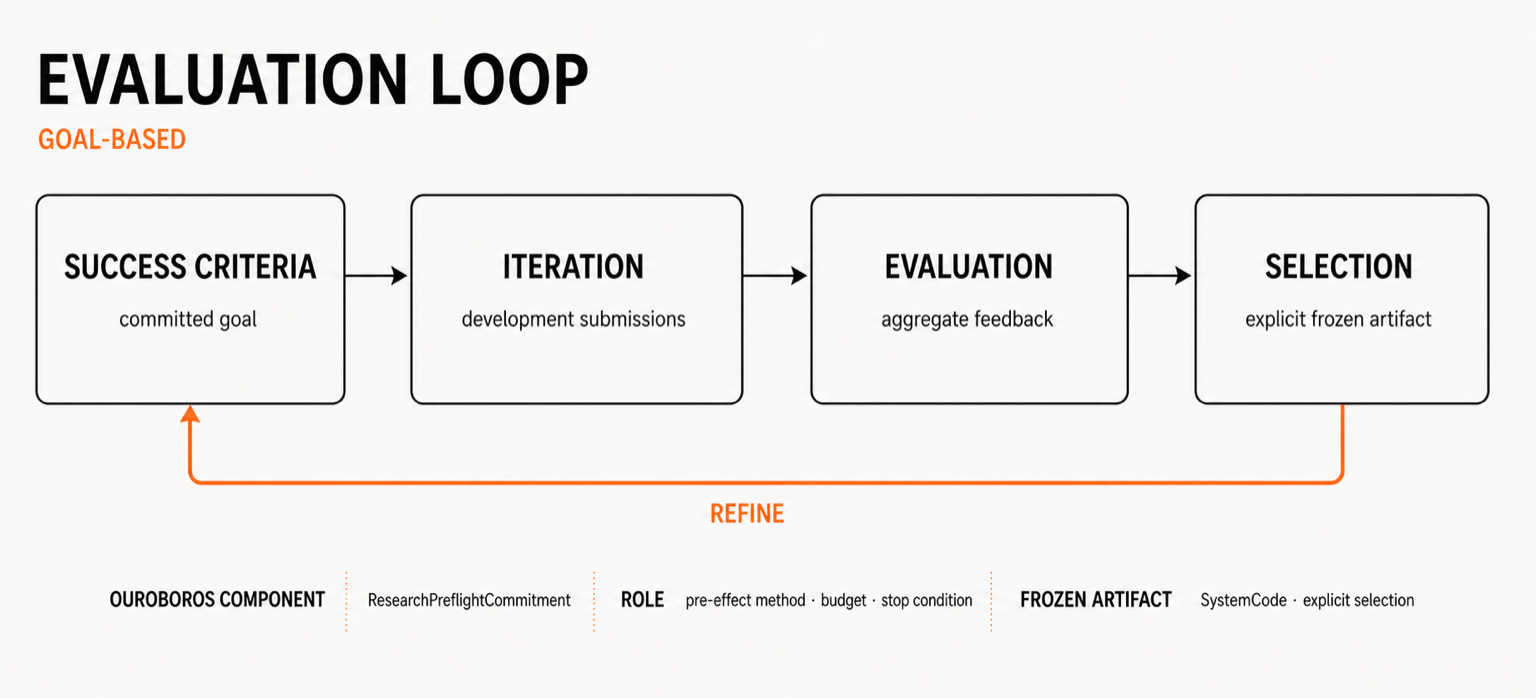
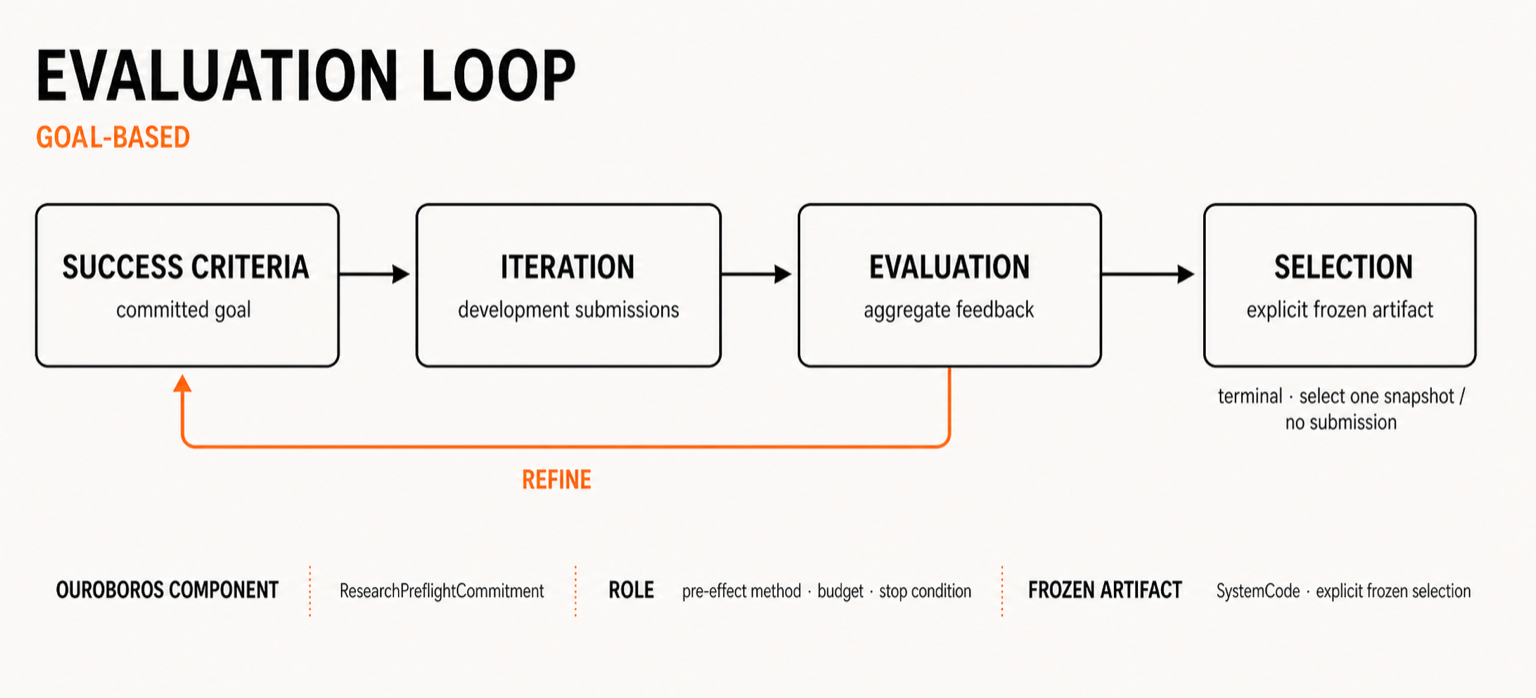
docs: correct loop authority boundaries

diff --git a/docs/superpowers/plans/2026-07-29-readme-loop-illustrations.md b/docs/superpowers/plans/2026-07-29-readme-loop-illustrations.md
@@ -50,8 +50,8 @@ Scene/backdrop: warm mist off-white #F8F7F5 with faint paper-like support shapes
 Style/medium: restrained editorial technical diagram, precise black ink #17120F, Inter-like sans-serif, one controlled orange #F37021. Rounded rectangles with generous corner radius; no circles.
 Composition: five evenly spaced rounded-rectangle groups from left to right on one horizontal route. Draw one orange return path with rounded corners from the final group back to WORKFLOW ORCHESTRATION.
 Large text verbatim: "EXTERNAL SIGNALS", "WORKFLOW ORCHESTRATION", "CANDIDATE GENERATION", "EXTERNAL EVALUATION", "PERSISTED EVIDENCE".
-Small text verbatim: "MarketDataPort + Arena evidence", "RuntimeSupervisor · schedules bounded work", "CandidateArena + ResearchWorkerSession · proposes SystemCode", "CandidateAdmissionDecision + PaperTradingEvaluation · decides what counts", "Finding + Lineage + Gateway + Ledger · informs the next frontier".
-Authority rule: the only path into PaperTradingEvaluation passes through CandidateAdmissionDecision. Workflow orchestration chooses bounded work; external evaluation still decides what counts.
+Small text verbatim: "MarketDataPort + Arena evidence", "Target composition · bounded workflow orchestration", "CandidateArena + ResearchWorkerSession · proposes SystemCode", "CandidateAdmissionDecision + PaperTradingEvaluation · decides what counts", "Finding + Lineage + Gateway + Ledger · informs the next frontier", "CURRENT RUNTIME · RuntimeSupervisor reconciles selected paper · arena.start intent · research-study scheduler".
+Authority rule: the only path into PaperTradingEvaluation passes through CandidateAdmissionDecision. Target workflow orchestration chooses bounded work; external evaluation still decides what counts. The current RuntimeSupervisor is separately labeled with its three fixed lanes.
 Constraints: one primary idea, large readable spacing, no node crowding, no bypass connection, orange only for the operations return and admission gate.
 Avoid: headline, slogan, hands, people, robots, candlestick charts, currency, gradient, dark background, UI cards, 3D, shadow, logo, watermark.
 ```
@@ -116,7 +116,8 @@ Style reference: match the approved Ouroboros system-structure image exactly in 
 Composition: one clockwise path around a wide soft rounded rectangle, never a circle. Large stages run left to right across the top and return along the bottom.
 Large text verbatim: "EVALUATION LOOP", "GOAL-BASED", "SUCCESS CRITERIA", "ITERATION", "EVALUATION", "SELECTION".
 Small text verbatim: "ResearchPreflightCommitment", "method + budget + stop condition", "SystemCode · explicit frozen selection".
-Color: black structure, orange return path from SELECTION to SUCCESS CRITERIA.
+Color: black structure, orange return path from EVALUATION to SUCCESS CRITERIA. SELECTION is a
+separate terminal node reached by one black arrow from EVALUATION and has no outgoing return.
 Constraints: one loop only, one purpose only, large calm whitespace.
 Avoid: other scopes, comparison grid, legend, headline, hands, people, robot, trading chart, logo, gradient, dark background, UI cards, shadow, 3D.
 ```
@@ -148,15 +149,17 @@ Asset type: Ouroboros README engineering-blog loop figure
 Primary request: Explain Operations as the proactive outer loop that improves the other three loops.
 Style reference: match the approved Ouroboros system-structure image exactly in background, line weight, typography, spacing, and orange use.
 Composition: one clockwise path around a wide soft rounded rectangle, never a circle. Large stages run left to right across the top and return along the bottom. BOUNDED RUN contains three compact choices, not three new diagrams.
-Large text verbatim: "ORCHESTRATION LOOP", "PROACTIVE", "SIGNAL", "WORKFLOW ORCHESTRATION", "BOUNDED RUN", "PERSISTED STATE", "NEXT WAKE".
-Small text verbatim: "market + Arena evidence", "RuntimeSupervisor", "Agent workflow · Experiment workflow · Research workflow", "checkpoint + attributable result".
+Large text verbatim: "ORCHESTRATION LOOP", "PROACTIVE", "TARGET COMPOSITION", "SIGNAL", "WORKFLOW ORCHESTRATION", "BOUNDED RUN", "PERSISTED STATE", "NEXT WAKE".
+Small text verbatim: "market + Arena evidence", "target composition", "Agent workflow · Evaluation workflow · Research workflow", "CURRENT RUNTIME · RuntimeSupervisor", "fixed lanes · selected paper / arena.start intent / research-study scheduler", "checkpoint + attributable result".
 Color: black structure, orange signal, selected-workflow marker, and final return path.
 Authority rule: do not show Operations granting admission, paper rank, private access, or live authority.
 Constraints: one meta-loop only; the three inner-loop names are choices inside one node, not three additional diagrams.
 Avoid: full system pipeline, paper-arena topology, comparison grid, legend, headline, hands, people, robot, candlestick chart, logo, gradient, dark background, UI cards, shadow, 3D.
 ```
 
-Inspect it at original detail. Reject it unless market/Arena evidence visibly leads to choosing Agent, Experiment, or Research improvement and the result persists before the next wake.
+Inspect it at original detail. Reject it unless target market/Arena evidence visibly leads to
+choosing Agent, Evaluation, or Research improvement, the result persists before the next wake,
+and the current `RuntimeSupervisor` is separately described as reconciling three fixed lanes.
 
 - [x] **Step 5: Copy and crop all four approved images**
 

diff --git a/README.md b/README.md
@@ -117,10 +117,13 @@ that informs the next candidate generation.
 
 ### Functional architecture
 
-![Ouroboros routes external market and Arena signals through workflow orchestration, candidate generation, external evaluation, and persisted evidence that informs the next frontier](docs/assets/ouroboros-system-structure-v3.png)
+![Ouroboros target composition routes external market and Arena signals through workflow orchestration, candidate generation, external evaluation, and persisted evidence, while the current RuntimeSupervisor reconciles three fixed persisted lanes](docs/assets/ouroboros-system-structure-v3.png)
 
 The portable systems terms are large; the exact Ouroboros components and their roles appear below
-them. `RuntimeSupervisor` turns market and Arena signals into bounded work.
+them. The figure shows the target composition, not a claim that every connection is already an
+implemented runtime policy. Today `RuntimeSupervisor` reconciles three fixed persisted lanes:
+selected paper lifecycle, `arena.start` intent, and research-study scheduling. It does not inspect
+`MarketDataPort` signals to choose among generic Agentic, Evaluation, or Research workflows.
 `CandidateArena` and `ResearchWorkerSession` generate frozen `SystemCode` candidates.
 `CandidateAdmissionDecision` and `PaperTradingEvaluation` remain external decision boundaries, and
 `Finding`, `Lineage`, `Gateway`, and `Ledger` evidence inform the next frontier. No generated path
@@ -149,7 +152,9 @@ tools; it cannot evaluate its own admission or grant trading authority.
 The Evaluation Loop starts from committed success criteria and iterates immutable development
 submissions against aggregate feedback. `ResearchPreflightCommitment` freezes the method, budget,
 evaluator opportunity, and stop condition before agent effects. The worker may explicitly select
-one frozen `SystemCode`; this development evaluation still has no admission authority.
+one frozen `SystemCode` or finish without a submission. Feedback can start another development
+iteration only before that decision; frozen selection is terminal for the worker session and never
+returns to mutable success criteria. This development evaluation still has no admission authority.
 
 ### Research loop — Time-based
 
@@ -162,13 +167,16 @@ window remains bounded even when research recurs on a time-based schedule.
 
 ### Operations: orchestration loop — Proactive
 
-![The proactive Orchestration Loop observes market and Arena signals, chooses a bounded Agent, Experiment, or Research workflow, persists its checkpoint, and schedules the next wake](docs/assets/ouroboros-orchestration-loop-v3.png)
+![The target proactive Orchestration Loop observes market and Arena signals, chooses a bounded Agent, Evaluation, or Research workflow, persists its checkpoint, and schedules the next wake; the current RuntimeSupervisor instead reconciles three fixed persisted lanes](docs/assets/ouroboros-orchestration-loop-v3.png)
 
-The Operations Loop is the outer orchestration loop that causes the preceding three loops to run.
-`RuntimeSupervisor` observes market and Arena evidence, reconciles Agentic, Evaluation, and
-Research work, opens one bounded run, persists a `RuntimeSupervisorCheckpoint`, and records the
-next wake. It may improve the researcher, experiment, agent behavior, or the research direction;
-it never grades its own output or gains evaluation, order, private, or live authority.
+The Operations Loop is the target outer orchestration composition that can cause the preceding
+three loops to run: observe signals, choose one bounded workflow, persist its result, and schedule
+the next wake. That target may improve the researcher, evaluation method, agent behavior, or
+research direction, but it is not the current `RuntimeSupervisor` policy. The implemented
+supervisor reconciles selected-paper lifecycle, persisted `arena.start` intent, and research-study
+scheduler state as three fixed lanes, with lifecycle and recovery checkpoints. It does not use
+market signals to open a generic workflow, grade its own output, or gain evaluation, order,
+private, or live authority.
 
 Agentic, Evaluation, and Research work are implemented as bounded paths. Continuous 24/365
 operation is the target composition; production-duration autonomy, complete soak evidence, and

diff --git a/docs/superpowers/specs/2026-07-29-readme-loop-illustrations-design.md b/docs/superpowers/specs/2026-07-29-readme-loop-illustrations-design.md
@@ -45,17 +45,20 @@ Small Ouroboros mappings:
 
 ```text
 EXTERNAL SIGNALS        MarketDataPort + Arena evidence
-WORKFLOW ORCHESTRATION  RuntimeSupervisor; schedules bounded work
+WORKFLOW ORCHESTRATION  target composition; bounded workflow orchestration
 CANDIDATE GENERATION    CandidateArena + ResearchWorkerSession; proposes SystemCode
 EXTERNAL EVALUATION     CandidateAdmissionDecision + PaperTradingEvaluation; decides what counts
 PERSISTED EVIDENCE      Finding + Lineage + Gateway + Ledger; informs the next frontier
 ```
 
-The image explains ownership, not every persisted record. It must make three facts visible:
+The image explains the target composition, not every persisted record or an already implemented
+generic scheduling policy. It must make four facts visible:
 
-1. Workflow orchestration observes market and Arena evidence.
-2. RuntimeSupervisor decides which bounded Agent, Experiment, or Research workflow to start.
-3. Only externally admitted work reaches paper evaluation, and its evidence returns to Operations.
+1. Target workflow orchestration can observe market and Arena evidence.
+2. Candidate generation and external evaluation remain separate authority boundaries.
+3. Only externally admitted work reaches paper evaluation, and its evidence informs the next frontier.
+4. The current `RuntimeSupervisor` reconciles three fixed persisted lanes: selected paper,
+   `arena.start` intent, and research-study scheduling.
 
 ### 2. Agentic Loop — Turn-based
 
@@ -70,13 +73,16 @@ CONTEXT -> MODEL INFERENCE -> TOOL EXECUTION -> OBSERVATION -> CONTEXT
 ### 3. Evaluation Loop — Goal-based
 
 ```text
-SUCCESS CRITERIA -> ITERATION -> EVALUATION -> SELECTION -> SUCCESS CRITERIA
+SUCCESS CRITERIA -> ITERATION -> EVALUATION -> SUCCESS CRITERIA
+                                      |
+                                      +-> terminal SELECTION
 ```
 
 - Representative mode: `GOAL-BASED`
 - Small mapping: `ResearchPreflightCommitment`; precommitted method, budget, submissions, and stop condition
 - Small mapping: `SystemCode`; frozen candidate artifact selected explicitly before admission
-- Stop: explicit selection, goal reached, budget exhausted, or fail-closed termination
+- Stop: explicit selection or no submission is terminal; budget exhaustion or fail-closed
+  termination also closes the session
 
 ### 4. Research Loop — Time-based
 
@@ -96,10 +102,12 @@ SIGNAL -> WORKFLOW ORCHESTRATION -> BOUNDED RUN -> PERSISTED STATE -> NEXT WAKE
 ```
 
 - Representative mode: `PROACTIVE`
-- Small mapping: `RuntimeSupervisor`; reconciles CandidateArena, selected paper, and research scheduling
-- `BOUNDED RUN` visibly offers `Agent workflow`, `Experiment workflow`, and `Research workflow`
-- Operations is the outer loop that observes market/Arena signals and creates or reopens bounded
-  Agent, Experiment, and Research work.
+- The illustrated generic workflow choice is a target composition, not current runtime policy
+- Small mapping: current `RuntimeSupervisor`; reconciles selected paper, persisted `arena.start`
+  intent, and research-study scheduling as fixed lanes
+- `BOUNDED RUN` visibly offers `Agent workflow`, `Evaluation workflow`, and `Research workflow`
+- Target Operations is the outer loop that observes market/Arena signals and creates or reopens
+  bounded Agent, Evaluation, and Research work.
 - It does not grant admission, paper rank, private exchange access, or live trading authority.
 
 The four mode-to-scope pairings are representative explanatory matches, not exclusive runtime type
